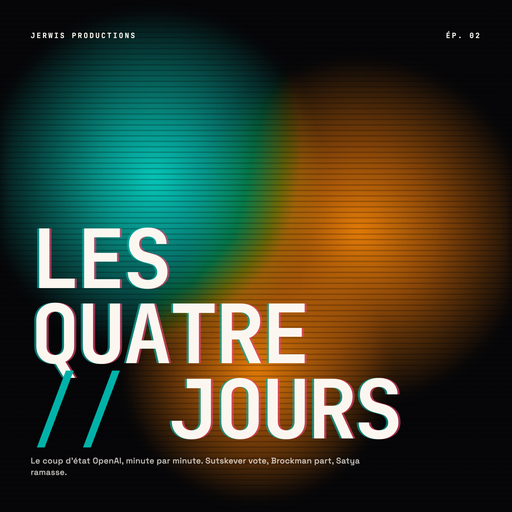
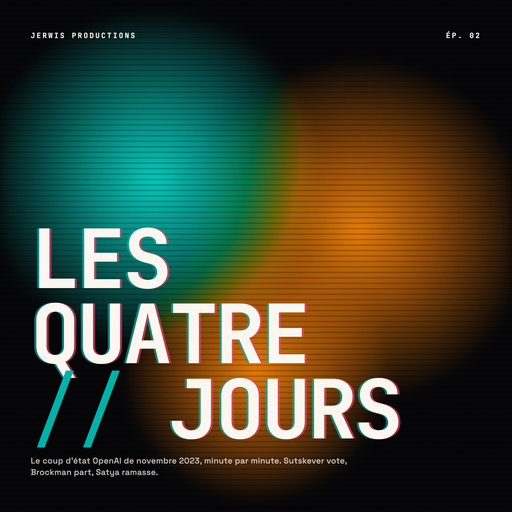
feat(podcast): descriptions longues et courtes en ton Leo pour les 3 episodes
- Ep01 "La Fracture" : 1895 chars description_long (contexte 2015 + depart Dario 2020 + lune de miel brisee)
- Ep02 "Les Quatre Jours" : 2150 chars description_long (coup d'etat OpenAI nov 2023 minute par minute)
- Ep03 "Freres Ennemis" : 2166 chars description_long (Musk vs Altman, proces 134 milliards, retour 2017)
- Correction factuelle description_short ep01 (2023 -> 2020 + depart Dario)
- Ajout "novembre 2023" dans description_short ep02
- Redaction description_short ep03
- Populer guests_voices ep03 (8 voix)
- Regeneration RSS (17 Ko au lieu de 4.7 Ko) + podcast.html + 6 PNG covers avec nouveaux subtitles

Ton Leo respecte :
- 1ere personne directe
- Transparence IA (voix synthetiques ElevenLabs, scripts avec Claude)
- Montrer le travail (duree, mastering, voix, sources)
- Appel a retour ("Dis-moi ce que tu en penses", "Je lis tout")

Pret pour submissions Apple/Spotify.

Changed region(s): [[0.0625, 0.875, 0.7188, 0.9375]]

diff --git a/podcast.html b/podcast.html
@@ -481,7 +481,7 @@
         <div class="pod-ep-body">
           <div class="pod-ep-num">Épisode 01 · 17:16</div>
           <h3 class="pod-ep-title">La Fracture</h3>
-          <p class="pod-ep-desc">Novembre 2023. Altman et Amodei au sommet. Un désaccord qui casse la fraternité OpenAI/Anthropic.</p>
+          <p class="pod-ep-desc">La nuit où Dario Amodei quitte OpenAI pour fonder Anthropic. Deux visions de l&#39;IA qui ne peuvent plus cohabiter.</p>
           <div class="pod-player" data-podcast-player data-src="https://pub-13be70d367034b9eb7903c6b3b80eaa0.r2.dev/episode-01-la-fracture-MASTER.mp3" data-ep="01"></div>
           <details class="pod-ep-cast"><summary>Casting voix</summary><ul><li>Paul K · Narrateur</li><li>Simon · Sam Altman</li><li>Mathieu · Dario Amodei</li><li>Camille Martin · Daniela Amodei</li></ul></details>
         </div>
@@ -494,7 +494,7 @@
         <div class="pod-ep-body">
           <div class="pod-ep-num">Épisode 02 · 17:24</div>
           <h3 class="pod-ep-title">Les Quatre Jours</h3>
-          <p class="pod-ep-desc">Le coup d&#39;état OpenAI, minute par minute. Sutskever vote, Brockman part, Satya ramasse.</p>
+          <p class="pod-ep-desc">Le coup d&#39;état OpenAI de novembre 2023, minute par minute. Sutskever vote, Brockman part, Satya ramasse.</p>
           <div class="pod-player" data-podcast-player data-src="https://pub-13be70d367034b9eb7903c6b3b80eaa0.r2.dev/episode-02-les-quatre-jours-MASTER.mp3" data-ep="02"></div>
           <details class="pod-ep-cast"><summary>Casting voix</summary><ul><li>Paul K · Narrateur</li><li>Simon · Sam Altman</li><li>Mathieu · Dario Amodei</li><li>Maxime · Greg Brockman</li><li>Marc Aurèle · Ilya Sutskever</li><li>Stephyra · Helen Toner</li><li>Olivier 50s · Satya Nadella</li></ul></details>
         </div>
@@ -507,9 +507,9 @@
         <div class="pod-ep-body">
           <div class="pod-ep-num">Épisode 03 · 15:18</div>
           <h3 class="pod-ep-title">Frères Ennemis</h3>
-          <p class="pod-ep-desc">À RÉDIGER (150 chars max).</p>
+          <p class="pod-ep-desc">Musk contre Altman. 134 milliards sur la table. Le père fondateur qui poursuit son ancienne enfant pour lui reprendre la garde.</p>
           <div class="pod-player" data-podcast-player data-src="https://pub-13be70d367034b9eb7903c6b3b80eaa0.r2.dev/episode-03-freres-ennemis-MASTER.mp3" data-ep="03"></div>
-          
+          <details class="pod-ep-cast"><summary>Casting voix</summary><ul><li>Paul K · Narrateur</li><li>Saray · Elon Musk</li><li>Simon · Sam Altman</li><li>Maxime · Greg Brockman</li><li>Marc Aurèle · Ilya Sutskever</li><li>Olivier Ritz · Marc Toberoff (avocat Musk)</li><li>Geneviève · Juge Gonzalez Rogers</li><li>Sebastian · Bret Taylor (board OpenAI)</li></ul></details>
         </div>
       </article>
     </div>
